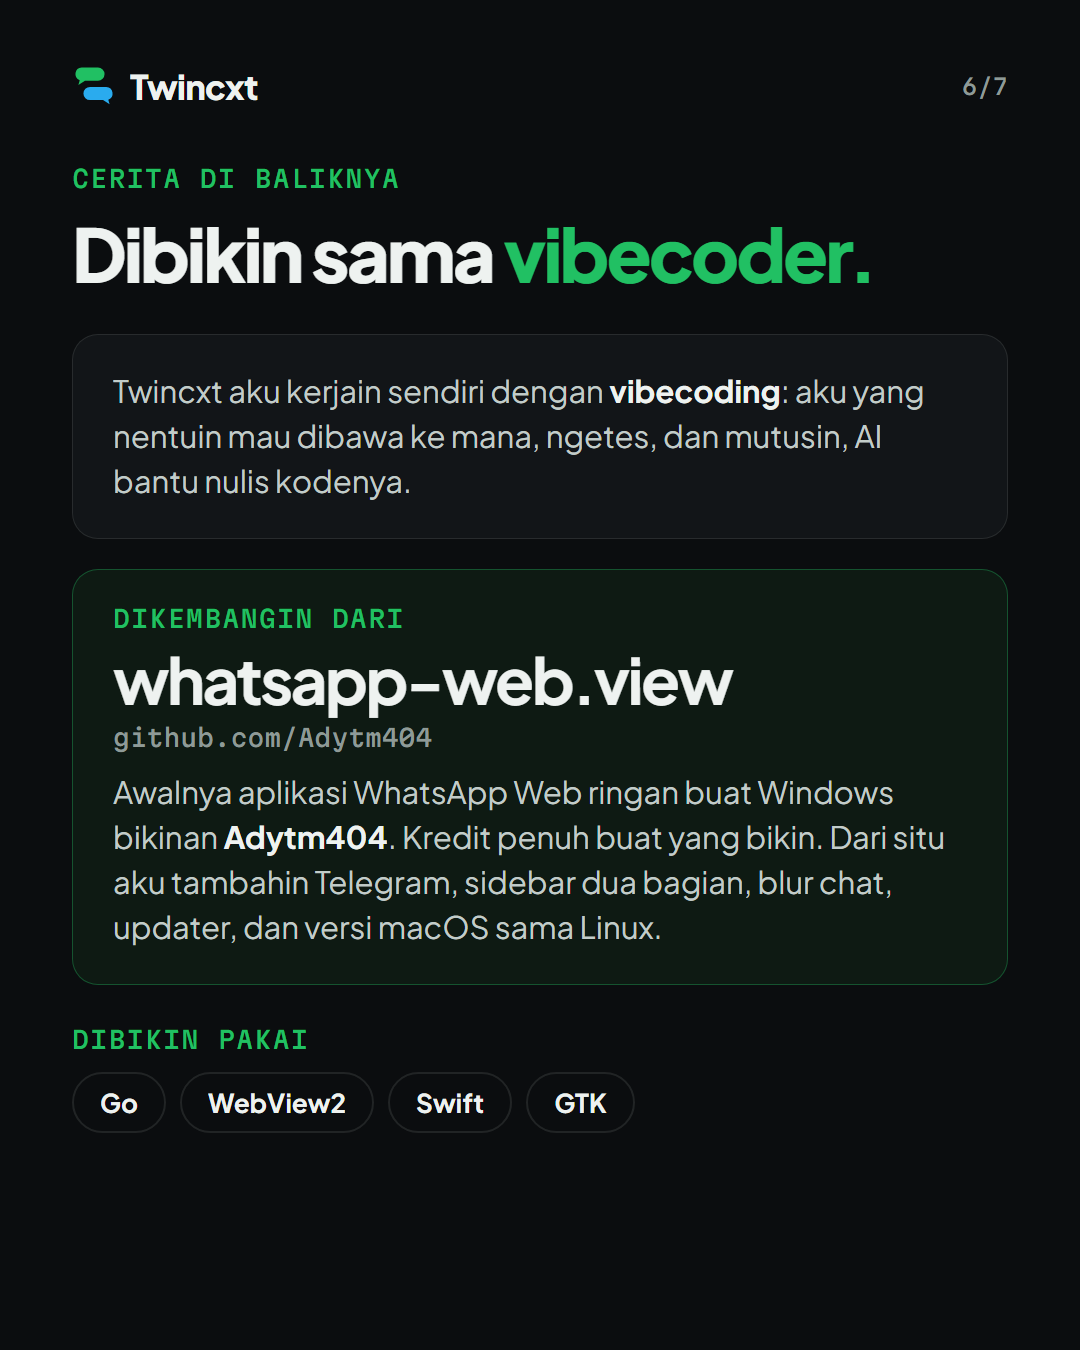
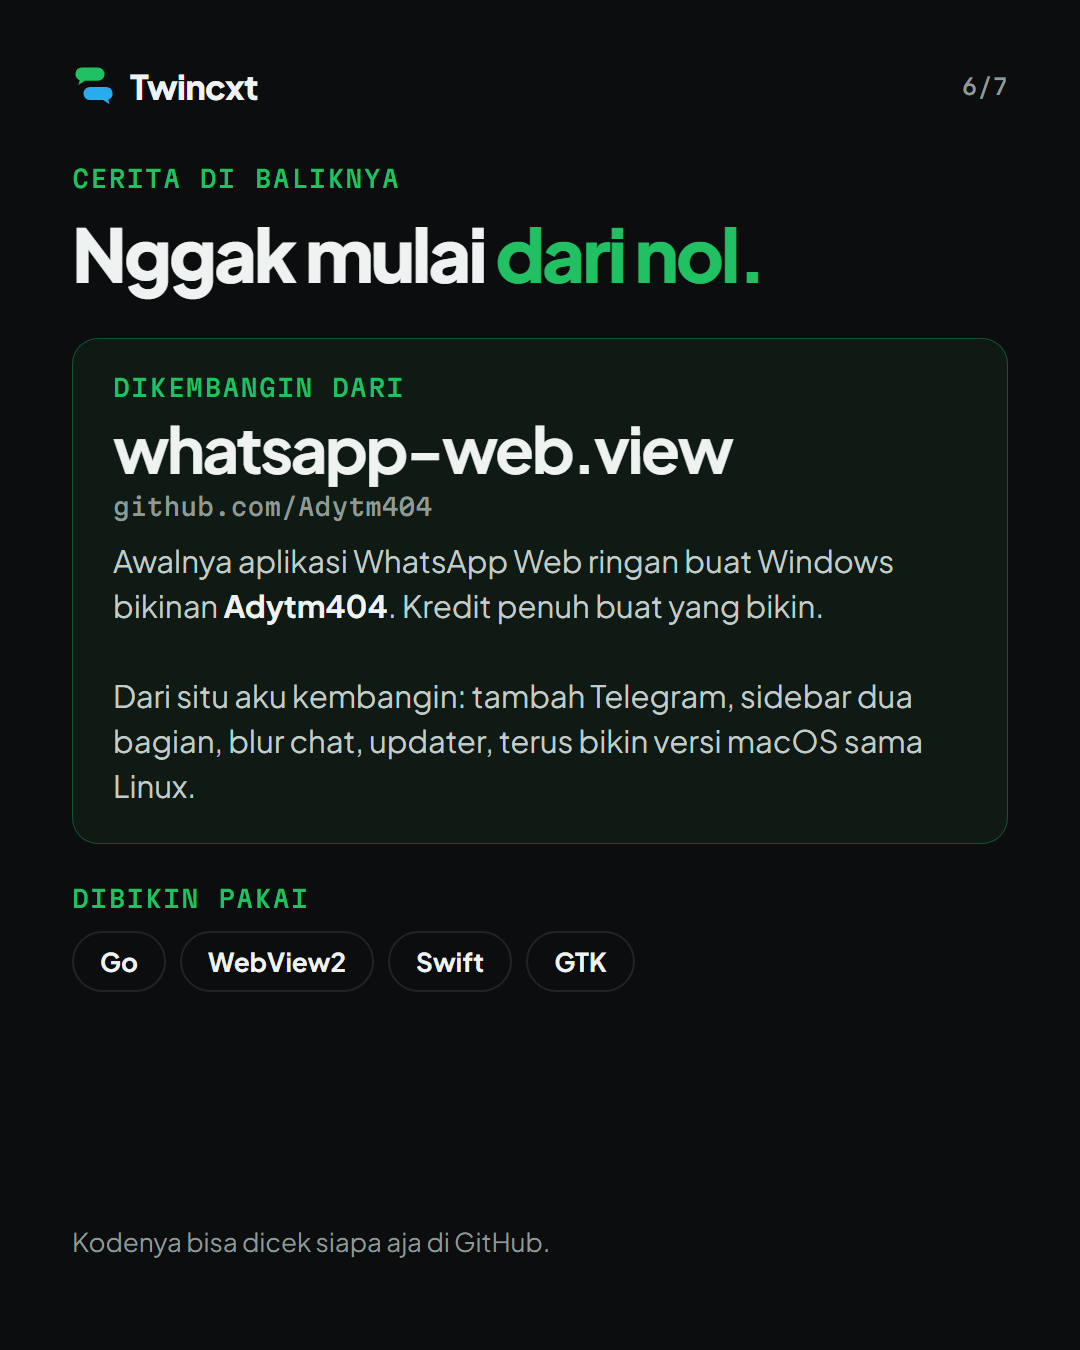
Threads post: tell the story as developed from whatsapp-web.view

diff --git a/promo/threads/slides.html b/promo/threads/slides.html
@@ -228,12 +228,11 @@
 <section class="slide">
   <div class="top"><span class="logo"><svg><use href="#mark"/></svg>Twincxt</span><span class="count">6/7</span></div>
   <p class="eyebrow">Cerita di baliknya</p>
-  <h2>Dibikin sama <em>vibecoder.</em></h2>
-  <div class="card" style="margin-top:44px">Twincxt aku kerjain sendiri dengan <b>vibecoding</b>: aku yang nentuin mau dibawa ke mana, ngetes, dan mutusin, AI bantu nulis kodenya.</div>
-  <div class="card hl">
+  <h2>Nggak mulai <em>dari nol.</em></h2>
+  <div class="card hl" style="margin-top:48px">
     <p class="eyebrow">Dikembangin dari</p>
     <h3>whatsapp-web.view<small>github.com/Adytm404</small></h3>
-    Awalnya aplikasi WhatsApp Web ringan buat Windows bikinan <b>Adytm404</b>. Kredit penuh buat yang bikin. Dari situ aku tambahin Telegram, sidebar dua bagian, blur chat, updater, dan versi macOS sama Linux.
+    Awalnya aplikasi WhatsApp Web ringan buat Windows bikinan <b>Adytm404</b>. Kredit penuh buat yang bikin.<br><br>Dari situ aku kembangin: tambah Telegram, sidebar dua bagian, blur chat, updater, terus bikin versi macOS sama Linux.
   </div>
   <p class="label">Dibikin pakai</p>
   <div class="chips"><span>Go</span><span>WebView2</span><span>Swift</span><span>GTK</span></div>

diff --git a/promo/threads/caption.md b/promo/threads/caption.md
@@ -16,7 +16,7 @@ gais, aku bikin aplikasi buat buka WhatsApp sama Telegram dalam satu jendela, na
 
 gratis, ada buat Windows, macOS, sama Linux. nggak perlu bolak-balik tab browser lagi, tinggal Ctrl+Tab
 
-dan ya, ini juga hasil vibecoding 😭 ceritanya di thread 🧵👇
+ceritanya di thread 🧵👇
 
 ## Post 2: fitur
 
@@ -38,7 +38,7 @@ tampilannya juga ngikutin OS-nya, gaya Windows 11, macOS, sama GNOME. update ber
 
 Twincxt nggak muncul dari nol ya. aku kembangin dari whatsapp-web.view bikinan Adytm404, aplikasi WhatsApp Web ringan buat Windows. kredit penuh buat yang bikin 🙏
 
-dari situ aku tambahin Telegram, sidebar dua bagian, blur chat, updater, terus bikin versi macOS sama Linux. vibecoding: aku yang nentuin, ngetes, sama mutusin, AI bantu nulis kodenya
+dari situ aku kembangin: tambah Telegram, sidebar dua bagian, blur chat, updater, terus bikin versi macOS sama Linux
 
 ## Post 5: link
 
@@ -54,7 +54,7 @@ gais, aku bikin Twincxt: WhatsApp sama Telegram dalam satu jendela 💬 gratis, 
 
 pindah tinggal Ctrl+Tab, chat bisa di-blur biar nggak keintip, video call tetap di jendela utama, ukurannya kecil
 
-dikembangin dari whatsapp-web.view bikinan Adytm404 (kredit buat dia 🙏), dibikin dengan vibecoding
+dikembangin dari whatsapp-web.view bikinan Adytm404 (kredit buat dia 🙏)
 
 download di github.com/rashiiddsr/twincxt
 
@@ -67,5 +67,5 @@ download di github.com/rashiiddsr/twincxt
 3. Twincxt dengan chat yang di-blur kecuali satu chat yang ditunjuk kursor, tulisan "Chat kamu, nggak keintip."
 4. Jendela video call terpisah di atas jendela utama Twincxt, tulisan "Video call tetap di jendela utama."
 5. Pengaturan Twincxt di Windows, macOS, dan Linux beserta ukuran filenya.
-6. Cerita di balik Twincxt: dibikin dengan vibecoding, dikembangin dari whatsapp-web.view bikinan Adytm404.
+6. Cerita di balik Twincxt: dikembangin dari whatsapp-web.view bikinan Adytm404.
 7. Download Twincxt gratis di github.com/rashiiddsr/twincxt, untuk Windows, macOS, Linux.
